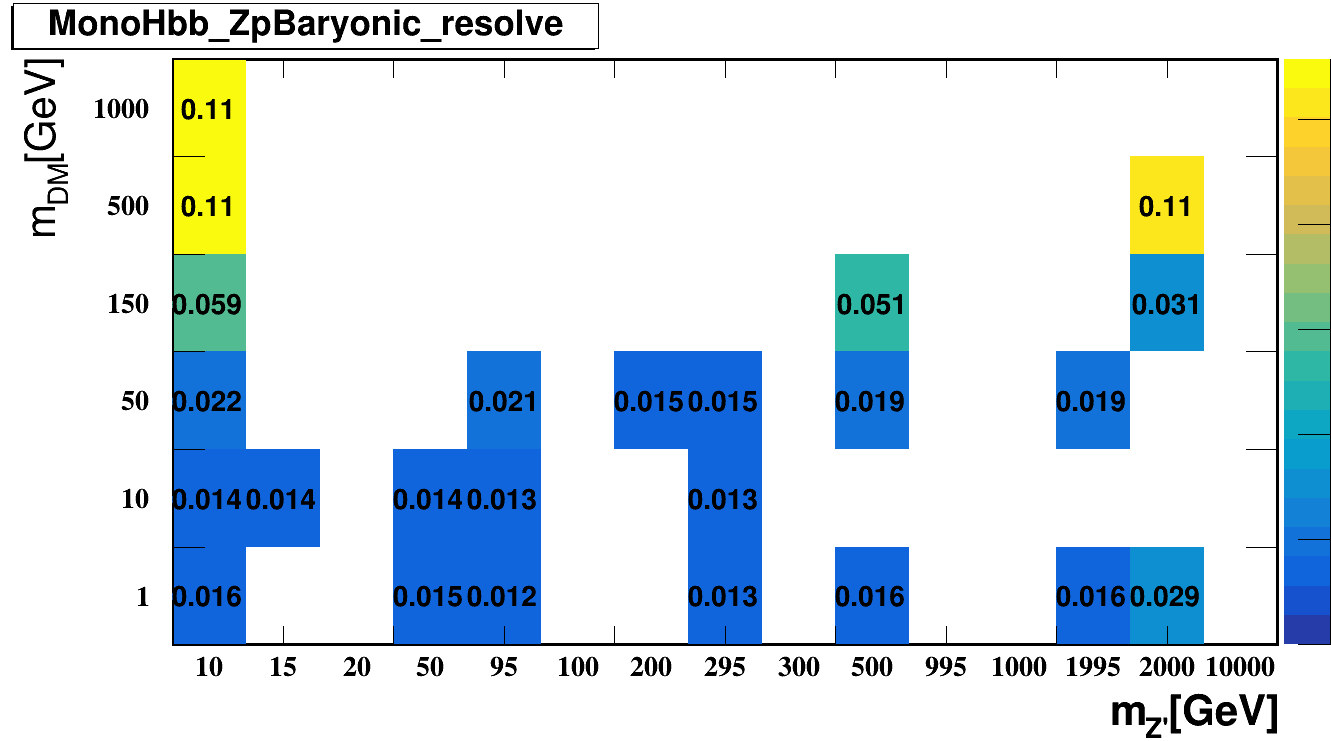
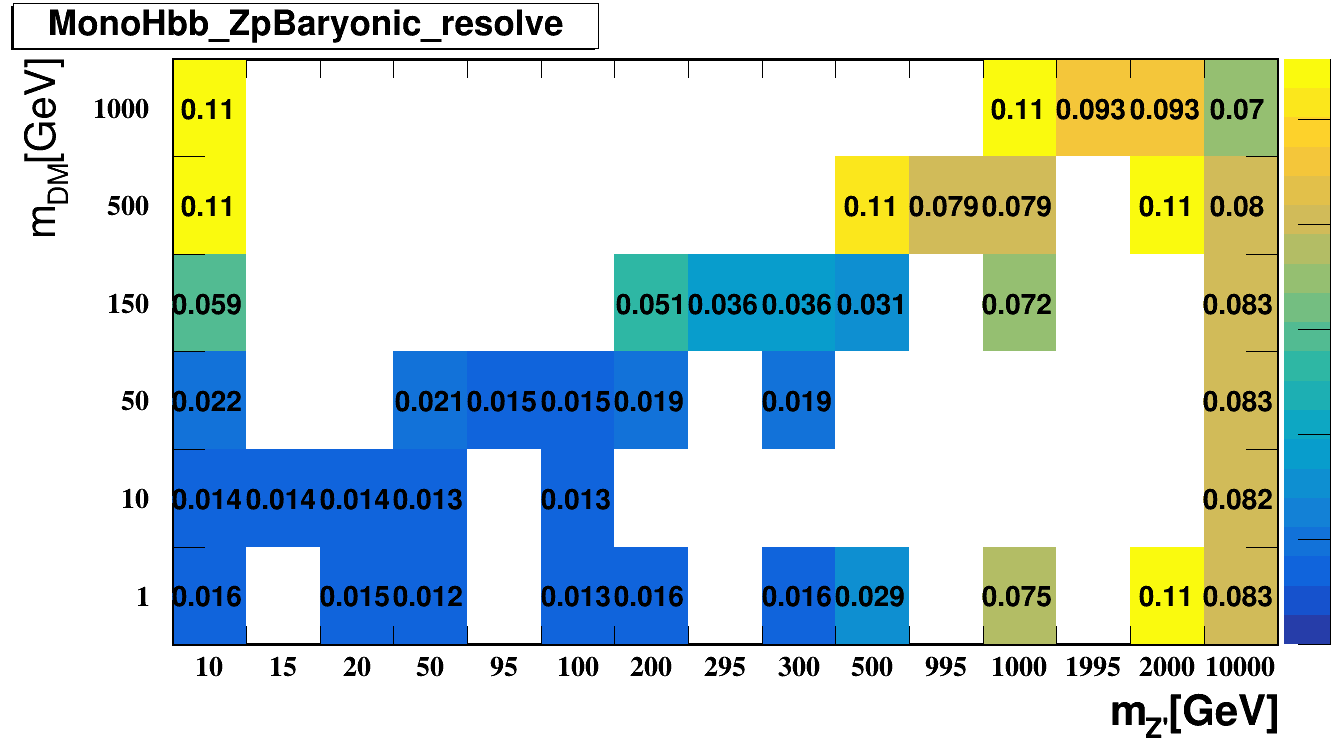
fix problem of plotting

Changed region(s): [[0.2156, 0.0621, 0.9857, 0.8691]]

diff --git a/official_gensim/small0706.C b/official_gensim/small0706.C
@@ -39,7 +39,7 @@ TH2D* readTxt(string inputDir[2],string outputName,int option=0){
 	int massA[6]={1,10,50,150,500,1000};
 	
 	TH2D* th2[5];
-	th2[0]=new TH2D("eff","eff",15,0,10,6,0,6);
+	th2[0]=new TH2D("eff","eff",15,0,15,6,0,6);
 	for(int i=0;i<15;i++){
 		for(int j=0;j<6;j++){
 			fstream file1(Form("%s_MZp-%d_MChi-%d_13TeV.txt",inputDir[0].data(),massZ[i],massA[j] ));
